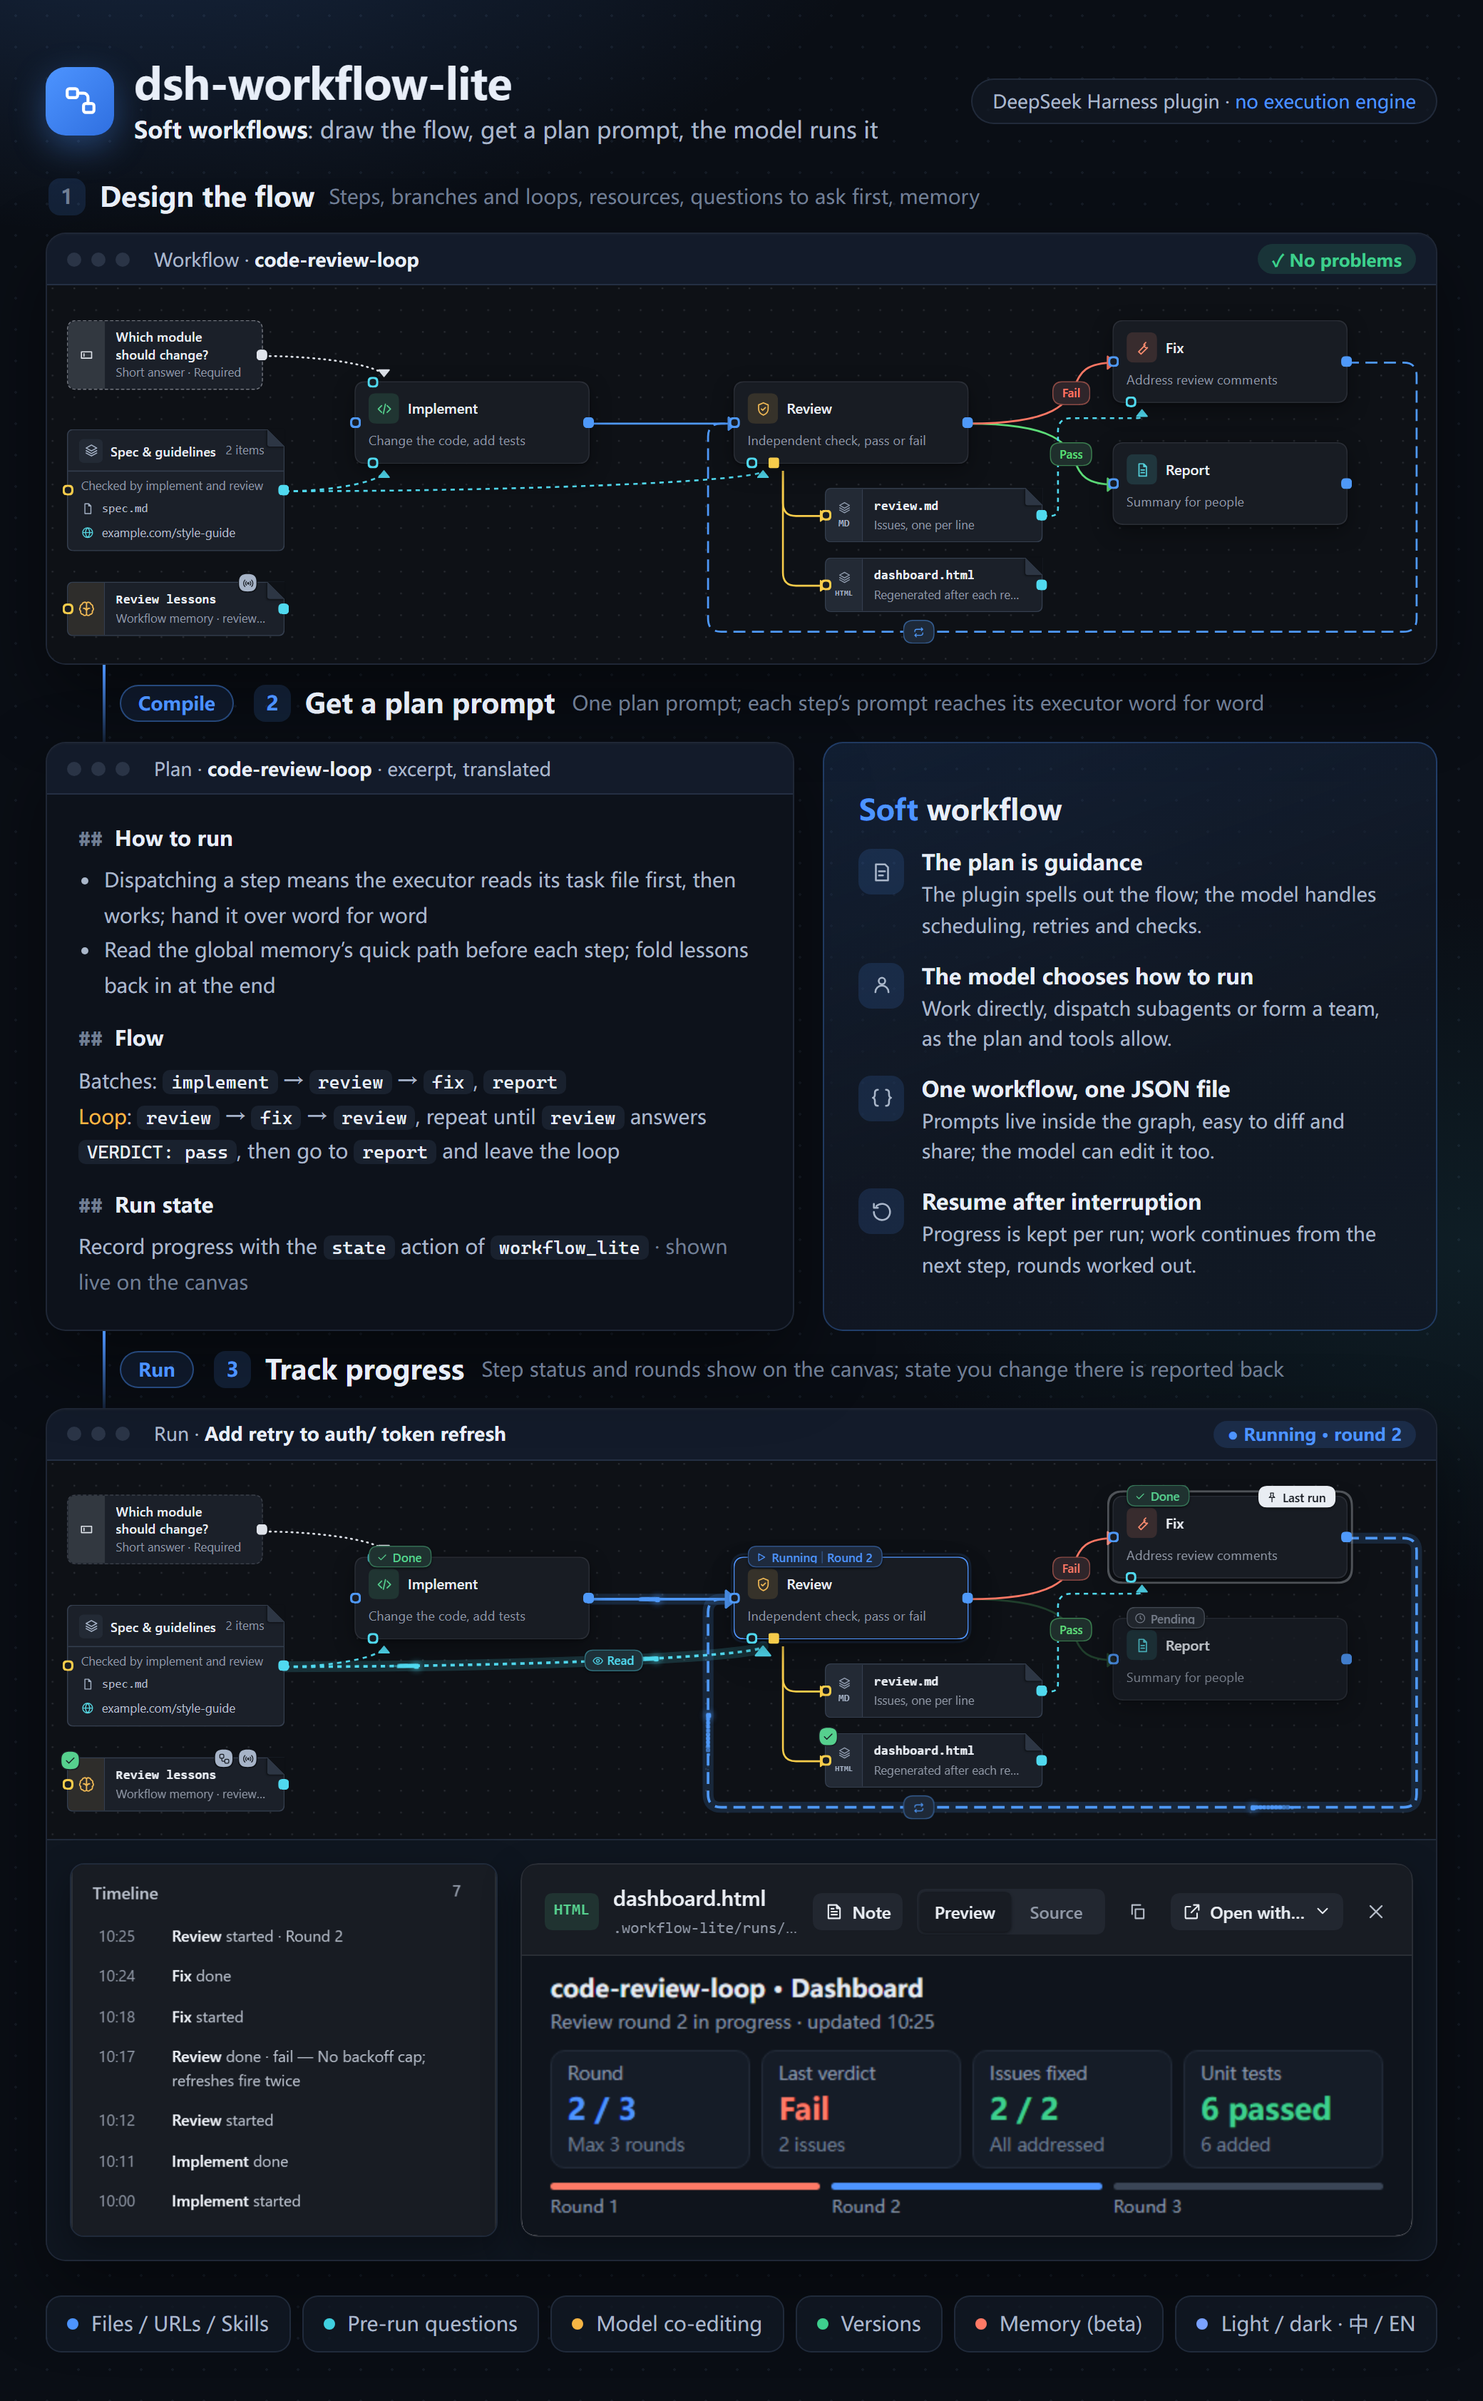
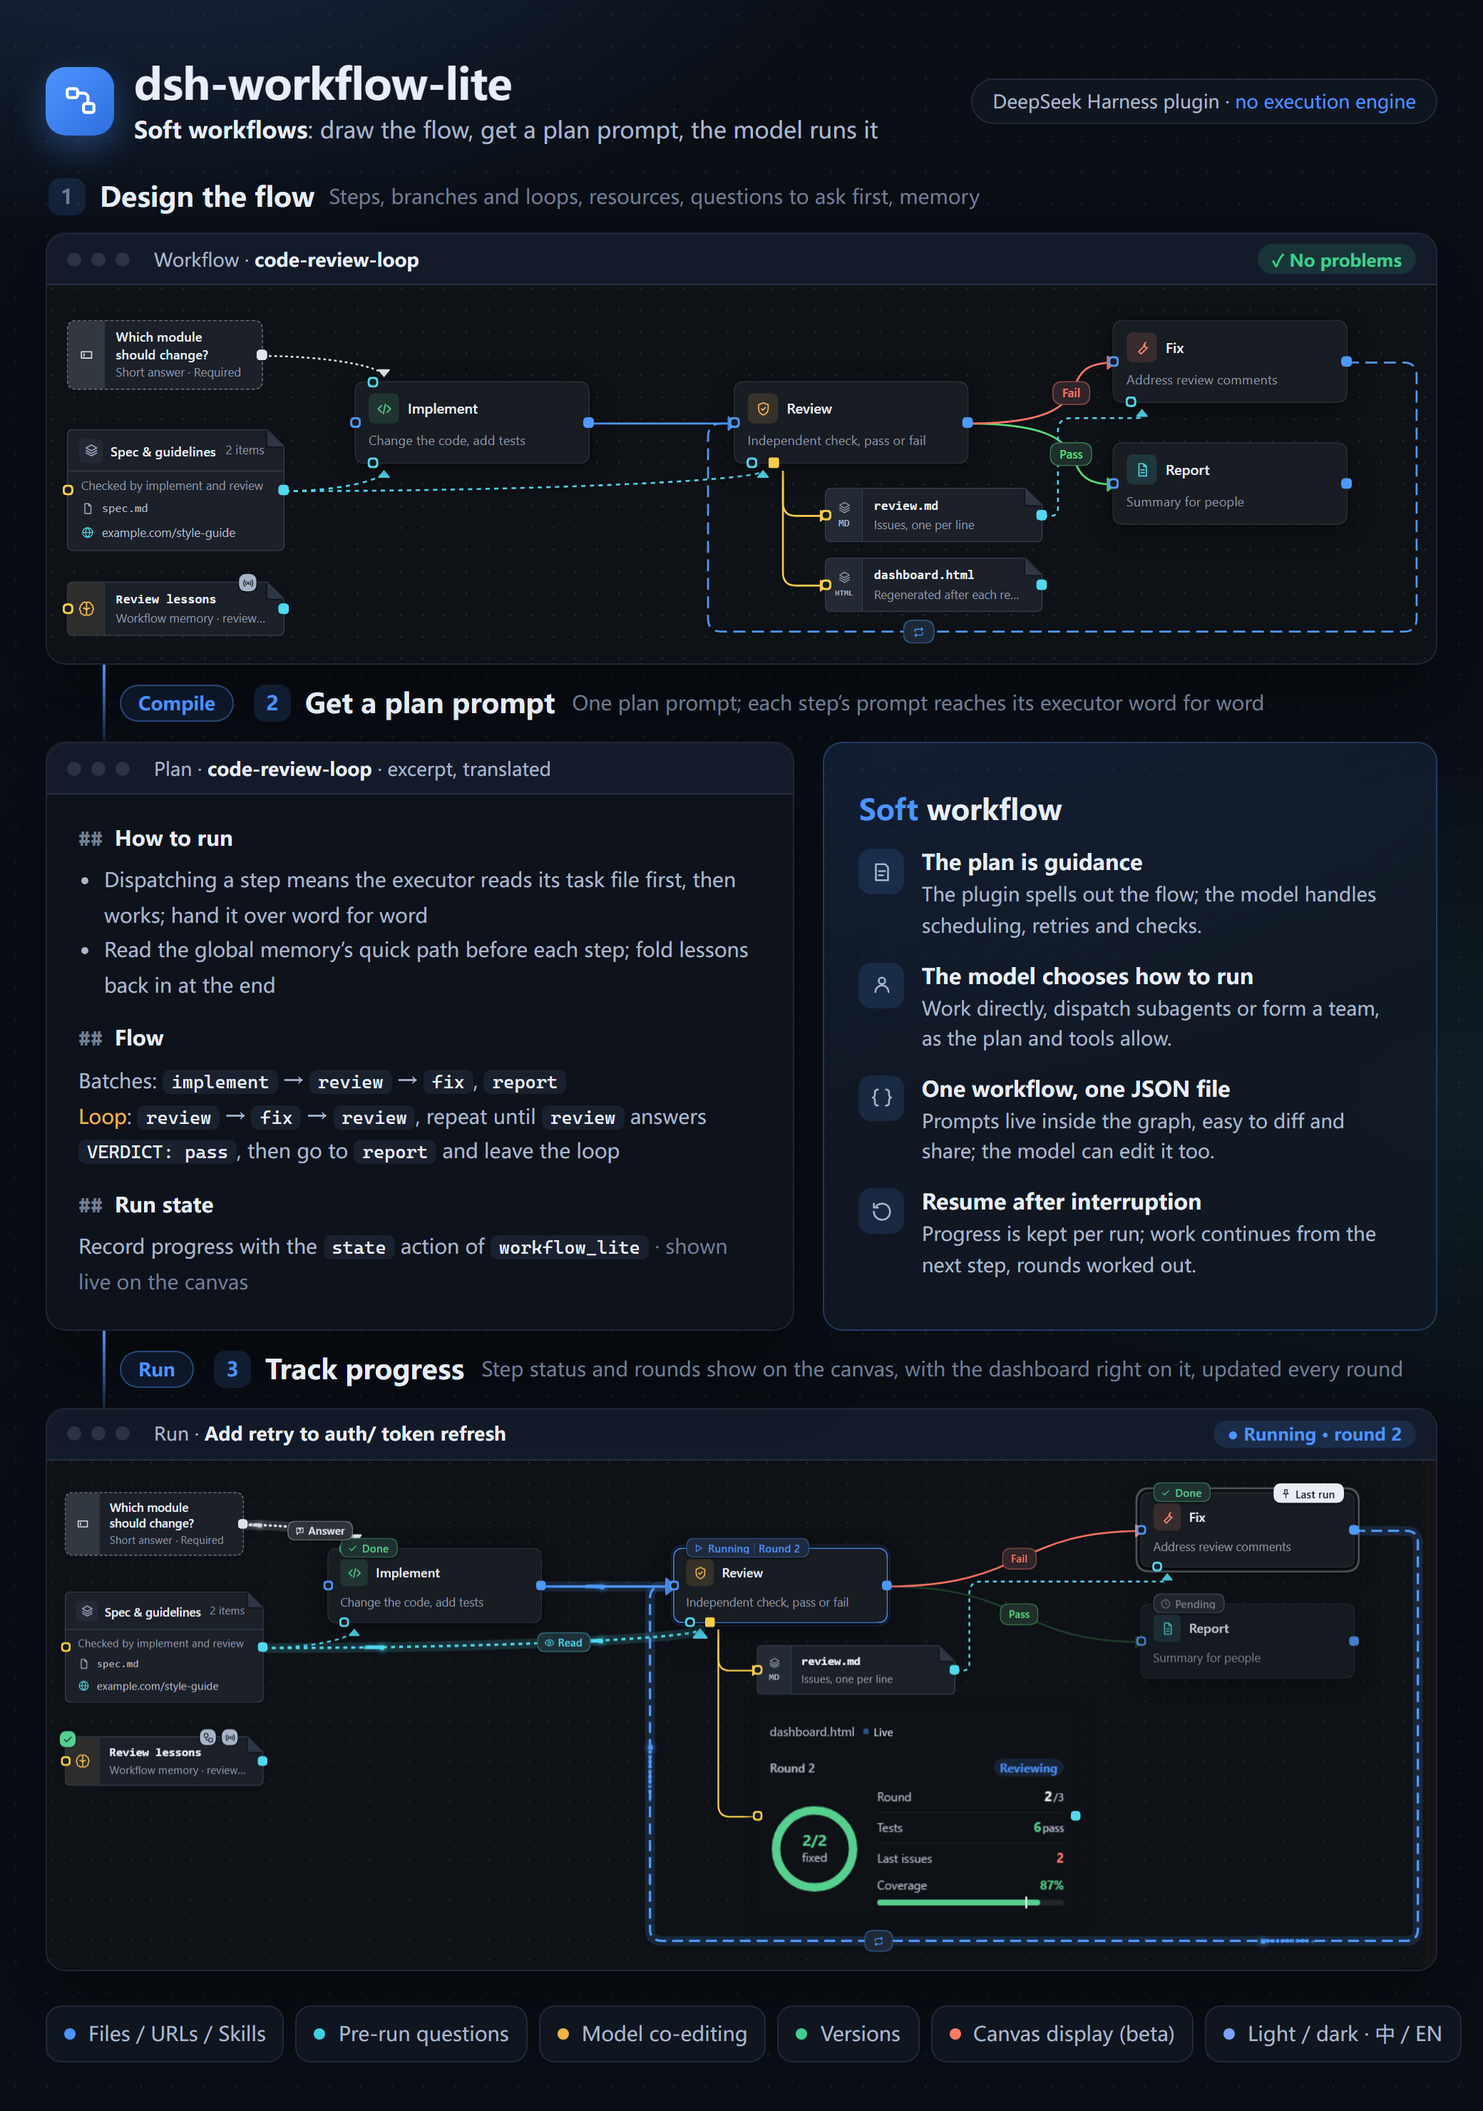
feat(display): 文件夹列表标出子文件夹里有几项、末尾写合计，建图指引让图和文件直接放在这一层；README 主图改成看板直接显示在画布上；版本卡片支持按 Unreleased 预览，补 0.9.0 内容

diff --git a/tests/readme/hero.html b/tests/readme/hero.html
@@ -82,13 +82,6 @@
   .chip.ok { background: rgb(62 207 142 / 14%); color: var(--green); }
   .chip.run { background: var(--accent-soft); color: var(--accent); }
 
-  /* 第三段的下半截：左边右栏里裁出的时间线，右边查看框里的看板，两块一样高。 */
-  .detail {
-    display: grid; grid-template-columns: auto 1fr; gap: 16px; padding: 16px;
-    border-top: 1px solid var(--line); background: rgb(18 25 37 / 55%);
-  }
-  .shot { border: 1px solid var(--line); border-radius: 10px; box-shadow: 0 10px 26px rgb(0 0 0 / 35%); }
-  .detail .board { border: 0; border-radius: 12px; justify-self: end; }
 
   /* 段与段之间的连接：一根竖线 + 动词，后面接下一段的标题行。 */
   .link { display: flex; gap: 10px; align-items: center; height: 54px; padding-left: 40px; }
@@ -195,10 +188,6 @@
         <span class="title" data-k="s3bar"></span><span class="chip run" data-k="s3chip"></span>
       </div>
       <img data-img="run-graph" alt="" />
-      <div class="detail">
-        <img class="shot" data-img="run-timeline" alt="" />
-        <img class="shot board" data-img="run-dashboard" alt="" />
-      </div>
     </div>
   </section>
 
@@ -231,7 +220,7 @@
         soft3: '<b>一个工作流一个 JSON</b><span>提示词随图保存，便于比对、分享，模型也能直接改。</span>',
         soft4: '<b>支持中断续跑</b><span>进度记在实例里，中断后从下一步接着做。</span>',
         run: '执行',
-        runNote: '画布同步显示各步骤状态与轮次；在画布上修改的状态会通知模型',
+        runNote: '画布同步显示各步骤状态与轮次，看板直接展示在画布上，每轮自动更新',
         s3: '跟踪执行进度',
         s3bar: '实例 · <b>给 auth/ 加上 token 刷新的重试</b>',
         s3chip: '● 执行中 · 第 2 轮',
@@ -240,7 +229,7 @@
           '执行前提问',
           '模型协作编辑',
           '版本管理',
-          '工作流记忆 · 实验性',
+          '画布展示 · 实验性',
           '浅色 / 深色 · 中 / 英',
         ],
       },
@@ -268,7 +257,7 @@
         soft3: '<b>One workflow, one JSON file</b><span>Prompts live inside the graph, easy to diff and share; the model can edit it too.</span>',
         soft4: '<b>Resume after interruption</b><span>Progress is kept per run; work continues from the next step, rounds worked out.</span>',
         run: 'Run',
-        runNote: 'Step status and rounds show on the canvas; state you change there is reported back',
+        runNote: 'Step status and rounds show on the canvas, with the dashboard right on it, updated every round',
         s3: 'Track progress',
         s3bar: 'Run · <b>Add retry to auth/ token refresh</b>',
         s3chip: '● Running · round 2',
@@ -277,7 +266,7 @@
           'Pre-run questions',
           'Model co-editing',
           'Versions',
-          'Memory (beta)',
+          'Canvas display (beta)',
           'Light / dark · 中 / EN',
         ],
       },

diff --git a/src/client/ui/ResourceDisplay.tsx b/src/client/ui/ResourceDisplay.tsx
@@ -1154,6 +1154,15 @@ function FolderList(props: {
   const sorted = [...props.entries].sort((a, b) => (a.dir === b.dir ? order(a, b) : a.dir ? -1 : 1))
   const rest = sorted.length - FOLDER_ROWS
   const grid = view.list === 'grid'
+  // 子文件夹写里面有几项（全是图时写几张图），文件写大小。
+  const meta = (entry: RunDirEntry): string | null => {
+    if (!entry.dir) return formatBytes(entry.size)
+    if (entry.items === undefined) return null
+    const images = entry.images ?? 0
+    return images > 0 && images === entry.items
+      ? t('display.folderImages').replace('{n}', images.toLocaleString())
+      : t('display.folderItems').replace('{n}', entry.items.toLocaleString())
+  }
   const mark = (entry: RunDirEntry, large: boolean): React.JSX.Element =>
     entry.dir ? (
       <Icon name="folder" size={large ? 16 : 12} />
@@ -1172,7 +1181,7 @@ function FolderList(props: {
             <li key={entry.name} className={css.folderCell}>
               <span className={css.folderCellIcon}>{mark(entry, true)}</span>
               <span className={css.folderCellName}>{entry.name}</span>
-              {!entry.dir && <span className={css.folderCellMeta}>{formatBytes(entry.size)}</span>}
+              {meta(entry) !== null && <span className={css.folderCellMeta}>{meta(entry)}</span>}
               {view.time === true && (
                 <span className={css.folderCellMeta}>{shortTime(entry.mtime)}</span>
               )}
@@ -1184,15 +1193,18 @@ function FolderList(props: {
               {view.time === true && (
                 <span className={css.folderTime}>{shortTime(entry.mtime)}</span>
               )}
-              {!entry.dir && <span className={css.folderSize}>{formatBytes(entry.size)}</span>}
+              {meta(entry) !== null && (
+                <span className={entry.dir ? css.folderTime : css.folderSize}>{meta(entry)}</span>
+              )}
             </li>
           ),
         )}
-        {rest > 0 && (
-          <li className={css.folderMore}>
-            {t('display.folderMore').replace('{n}', rest.toLocaleString())}
-          </li>
-        )}
+        {/* 列得下时末尾写一共几项，几行字下面不至于空着一大块没有交代。 */}
+        <li className={css.folderMore}>
+          {rest > 0
+            ? t('display.folderMore').replace('{n}', rest.toLocaleString())
+            : t('display.folderTotal').replace('{n}', sorted.length.toLocaleString())}
+        </li>
       </ul>
     </div>
   )

diff --git a/src/shared/dialect.ts b/src/shared/dialect.ts
@@ -145,10 +145,10 @@ export function dshDisplayLine(brief: DisplayBrief, target?: string): string {
           ? ''
           : `最新的一张占大格（约 ${brief.hero.width}×${brief.hero.height}），`
       const fit = brief.fit === 'cover' ? '每格铺满、超出的边裁掉' : '每格完整缩放、不裁'
-      return `${lead}这个文件夹会在画布的卡片里排成图墙：里面的图片按修改时间从新到旧排，${hero}一次露出 ${brief.tiles} 张（${fit}），用户点开才看全部。往里放图片（PNG、JPG、WebP、SVG），一张一件事、主体放在中间，文件名写清是什么${matchText(brief.match)}；${IMAGE_FIT}`
+      return `${lead}这个文件夹会在画布的卡片里排成图墙：里面的图片按修改时间从新到旧排，${hero}一次露出 ${brief.tiles} 张（${fit}），用户点开才看全部。往里放图片（PNG、JPG、WebP、SVG），直接放在这个文件夹里、不要再分子文件夹（卡片只看这一层，轮次、组别写进文件名，如 ${code('r02-200.svg')}），一张一件事、主体放在中间，文件名写清是什么${matchText(brief.match)}；${IMAGE_FIT}`
     }
     case 'files':
-      return `${lead}这个文件夹会在画布的卡片里列出里面的文件（最新的在前），用户点开文件看内容。文件名写清是什么（比如带上轮次或日期），一眼分得出哪个是哪个${matchText(brief.match)}。`
+      return `${lead}这个文件夹会在画布的卡片里列出里面的文件（最新的在前），用户点开文件看内容。文件直接放在这一层、少分子文件夹，文件名写清是什么（比如带上轮次或日期），一眼分得出哪个是哪个${matchText(brief.match)}。`
     case 'log': {
       const where =
         brief.from === 'start'

diff --git a/src/host/runs/files.ts b/src/host/runs/files.ts
@@ -10,14 +10,16 @@
  * @module @xiaoso/dsh-workflow-lite/host/runs/files
  */
 
-import { open, readdir, readFile, realpath, stat } from 'node:fs/promises'
+import { lstat, open, readdir, readFile, realpath, stat } from 'node:fs/promises'
 import { dirname, extname, isAbsolute, join, relative, resolve } from 'node:path'
+import { fileKindOf } from '../../shared/fileKind.ts'
 import { isResource } from '../../shared/model.ts'
 import { resolveItemPath, resolveOutputPath } from '../../shared/outputPaths.ts'
 import { resourceGraph, underOutputRoot } from '../../shared/resources.ts'
 import type { InstanceRecord } from '../../shared/runState.ts'
 import type { WorkflowDocument } from '../../shared/types.ts'
 import {
+  RUN_DIR_COUNTED,
   RUN_DIR_MAX,
   RUN_FILE_HTML_MAX,
   RUN_FILE_TEXT_MAX,
@@ -391,6 +393,22 @@ export async function readRunDir(
   )
   entries.sort((a, b) =>
     a.dir === b.dir ? a.name.localeCompare(b.name, undefined, { numeric: true }) : a.dir ? -1 : 1,
+  )
+  // 子文件夹数一下里面有几项、几张图（列表里写「3 张图」，不用点进去才知道）。软链不数：可能指到文件夹外面。
+  await Promise.all(
+    entries
+      .filter((entry) => entry.dir)
+      .slice(0, RUN_DIR_COUNTED)
+      .map(async (entry) => {
+        try {
+          if ((await lstat(join(full, entry.name))).isSymbolicLink()) return
+          const inner = await readdir(join(full, entry.name))
+          entry.items = inner.length
+          entry.images = inner.filter((name) => fileKindOf(name) === 'image').length
+        } catch {
+          // 读不了就不写项数。
+        }
+      }),
   )
   return { ...base, exists: true, entries, truncated: names.length > RUN_DIR_MAX }
 }

diff --git a/src/host/authoringSkill.ts b/src/host/authoringSkill.ts
@@ -241,7 +241,7 @@ SCOREBOARD.md（更新，只有 judge 写）。结构固定，不加别的节：
 |---|---|---|
 | 进度、指标一览 | HTML 看板（见上一节） | \`size\` m，全图最主要的一张可以 l |
 | 生成的图、图表 | 一张图片 | \`size\` m；比例特殊时给宽高，别比 m 大 |
-| 每轮出的一批图 | 一个文件夹，往里放图 | \`size\` m，缺省排成图墙；\`folder.layout\` 换成大图 + 胶片 |
+| 每轮出的一批图 | 一个文件夹，图平铺在这一层、轮次写进文件名（\`r02-a.svg\`），不分子文件夹 | \`size\` m，缺省排成图墙；\`folder.layout\` 换成大图 + 胶片 |
 | 长时间跑的过程 | \`.log\` 日志，一行一条 | \`size\` s 或 m，缺省停在末尾跟着走；\`lines.filter\` 只看要紧的行 |
 | 逐轮的指标、对比 | \`.csv\` / \`.tsv\`，一行一轮 | \`size\` m，排成表格；\`table.sort\`、\`table.bars\`、\`table.hide\` 挑重点 |
 | 结论、摘要 | 短 Markdown | \`size\` s 或 m |

diff --git a/src/client/i18n.ts b/src/client/i18n.ts
@@ -857,6 +857,9 @@ export const zh = {
   'display.live': '生成中',
   'display.folderEmpty': '文件夹是空的',
   'display.folderMore': '还有 {n} 项，打开查看全部',
+  'display.folderItems': '{n} 项',
+  'display.folderImages': '{n} 张图',
+  'display.folderTotal': '共 {n} 项',
   'display.updated': '刚更新',
   'file.logTop': '跳到开头',
   'file.logEnd': '跳到末尾',
@@ -2382,6 +2385,9 @@ export const en: Record<LocaleKey, string> = {
   'display.live': 'Live',
   'display.folderEmpty': 'Folder is empty',
   'display.folderMore': '{n} more — open to see all',
+  'display.folderItems': '{n} items',
+  'display.folderImages': '{n} images',
+  'display.folderTotal': '{n} items in all',
   'display.updated': 'Updated',
   'file.logTop': 'Jump to start',
   'file.logEnd': 'Jump to end',

diff --git a/tests/host/runs.spec.ts b/tests/host/runs.spec.ts
@@ -817,6 +817,10 @@ describe('看产出文件', () => {
       ['a b.png', false],
     ])
     expect(top.result.entries.find((entry) => entry.name === 'a b.png')?.size).toBe(png.length)
+    // 子文件夹带项数和图数；软链（可能指到外面）不数。
+    const deepEntry = top.result.entries.find((entry) => entry.name === 'deep')
+    expect([deepEntry?.items, deepEntry?.images]).toEqual([1, 0])
+    expect(top.result.entries.find((entry) => entry.name === 'link')?.items).toBeUndefined()
 
     // 往下一层：首尾的斜杠、反斜杠都认；显示的路径跟着变长。
     const deep = await runs.dir(id, { node: 'ref', item: 0, sub: '\\deep/' })

diff --git a/src/shared/wire.ts b/src/shared/wire.ts
@@ -941,7 +941,13 @@ export interface RunDirEntry {
   /** 字节数；文件夹是 0。 */
   size: number
   mtime: number
+  /** 子文件夹里有几项、其中几张图（只数一层；子文件夹多时只数前 {@link RUN_DIR_COUNTED} 个）。 */
+  items?: number
+  images?: number
 }
+
+/** 一层里最多数几个子文件夹的项数。 */
+export const RUN_DIR_COUNTED = 64
 export interface RunDirResponse {
   /** 这一层的绝对路径。 */
   path: string

diff --git a/CHANGELOG.md b/CHANGELOG.md
@@ -22,7 +22,7 @@
 - 日志停在末尾跟着新内容走，往上翻时出现「回到最新」；几百 MB 的日志也能流畅查看。
 - 日志和纯文本支持「只看」，按文字或正则筛出匹配的行并带上下文，查看框沿用同一个筛选。
 - CSV、TSV 排成表格，可选看开头或末尾、隐藏列、排序、给数字列画浅条。
-- 文件夹可展示成图片墙或文件列表，支持按名字筛选和排序；图片墙有「图墙」「大图 + 胶片」「最新一张」三种排法。
+- 文件夹可展示成图片墙或文件列表（子文件夹标出里面有几项），支持按名字筛选和排序；图片墙有「图墙」「大图 + 胶片」「最新一张」三种排法。
 - 压成一行的 JSON 自动展开缩进。
 - 新增循环产出回看：每一轮存一版，在展示卡下方的刻度轴上切换，查看框里可挑两轮对比；需开启「记录运行状态」，导出成 Skill 后执行不保存。
 - 文件更新后标题旁亮起「刚更新」、新内容高亮一下，写它的步骤执行时显示「生成中」。
